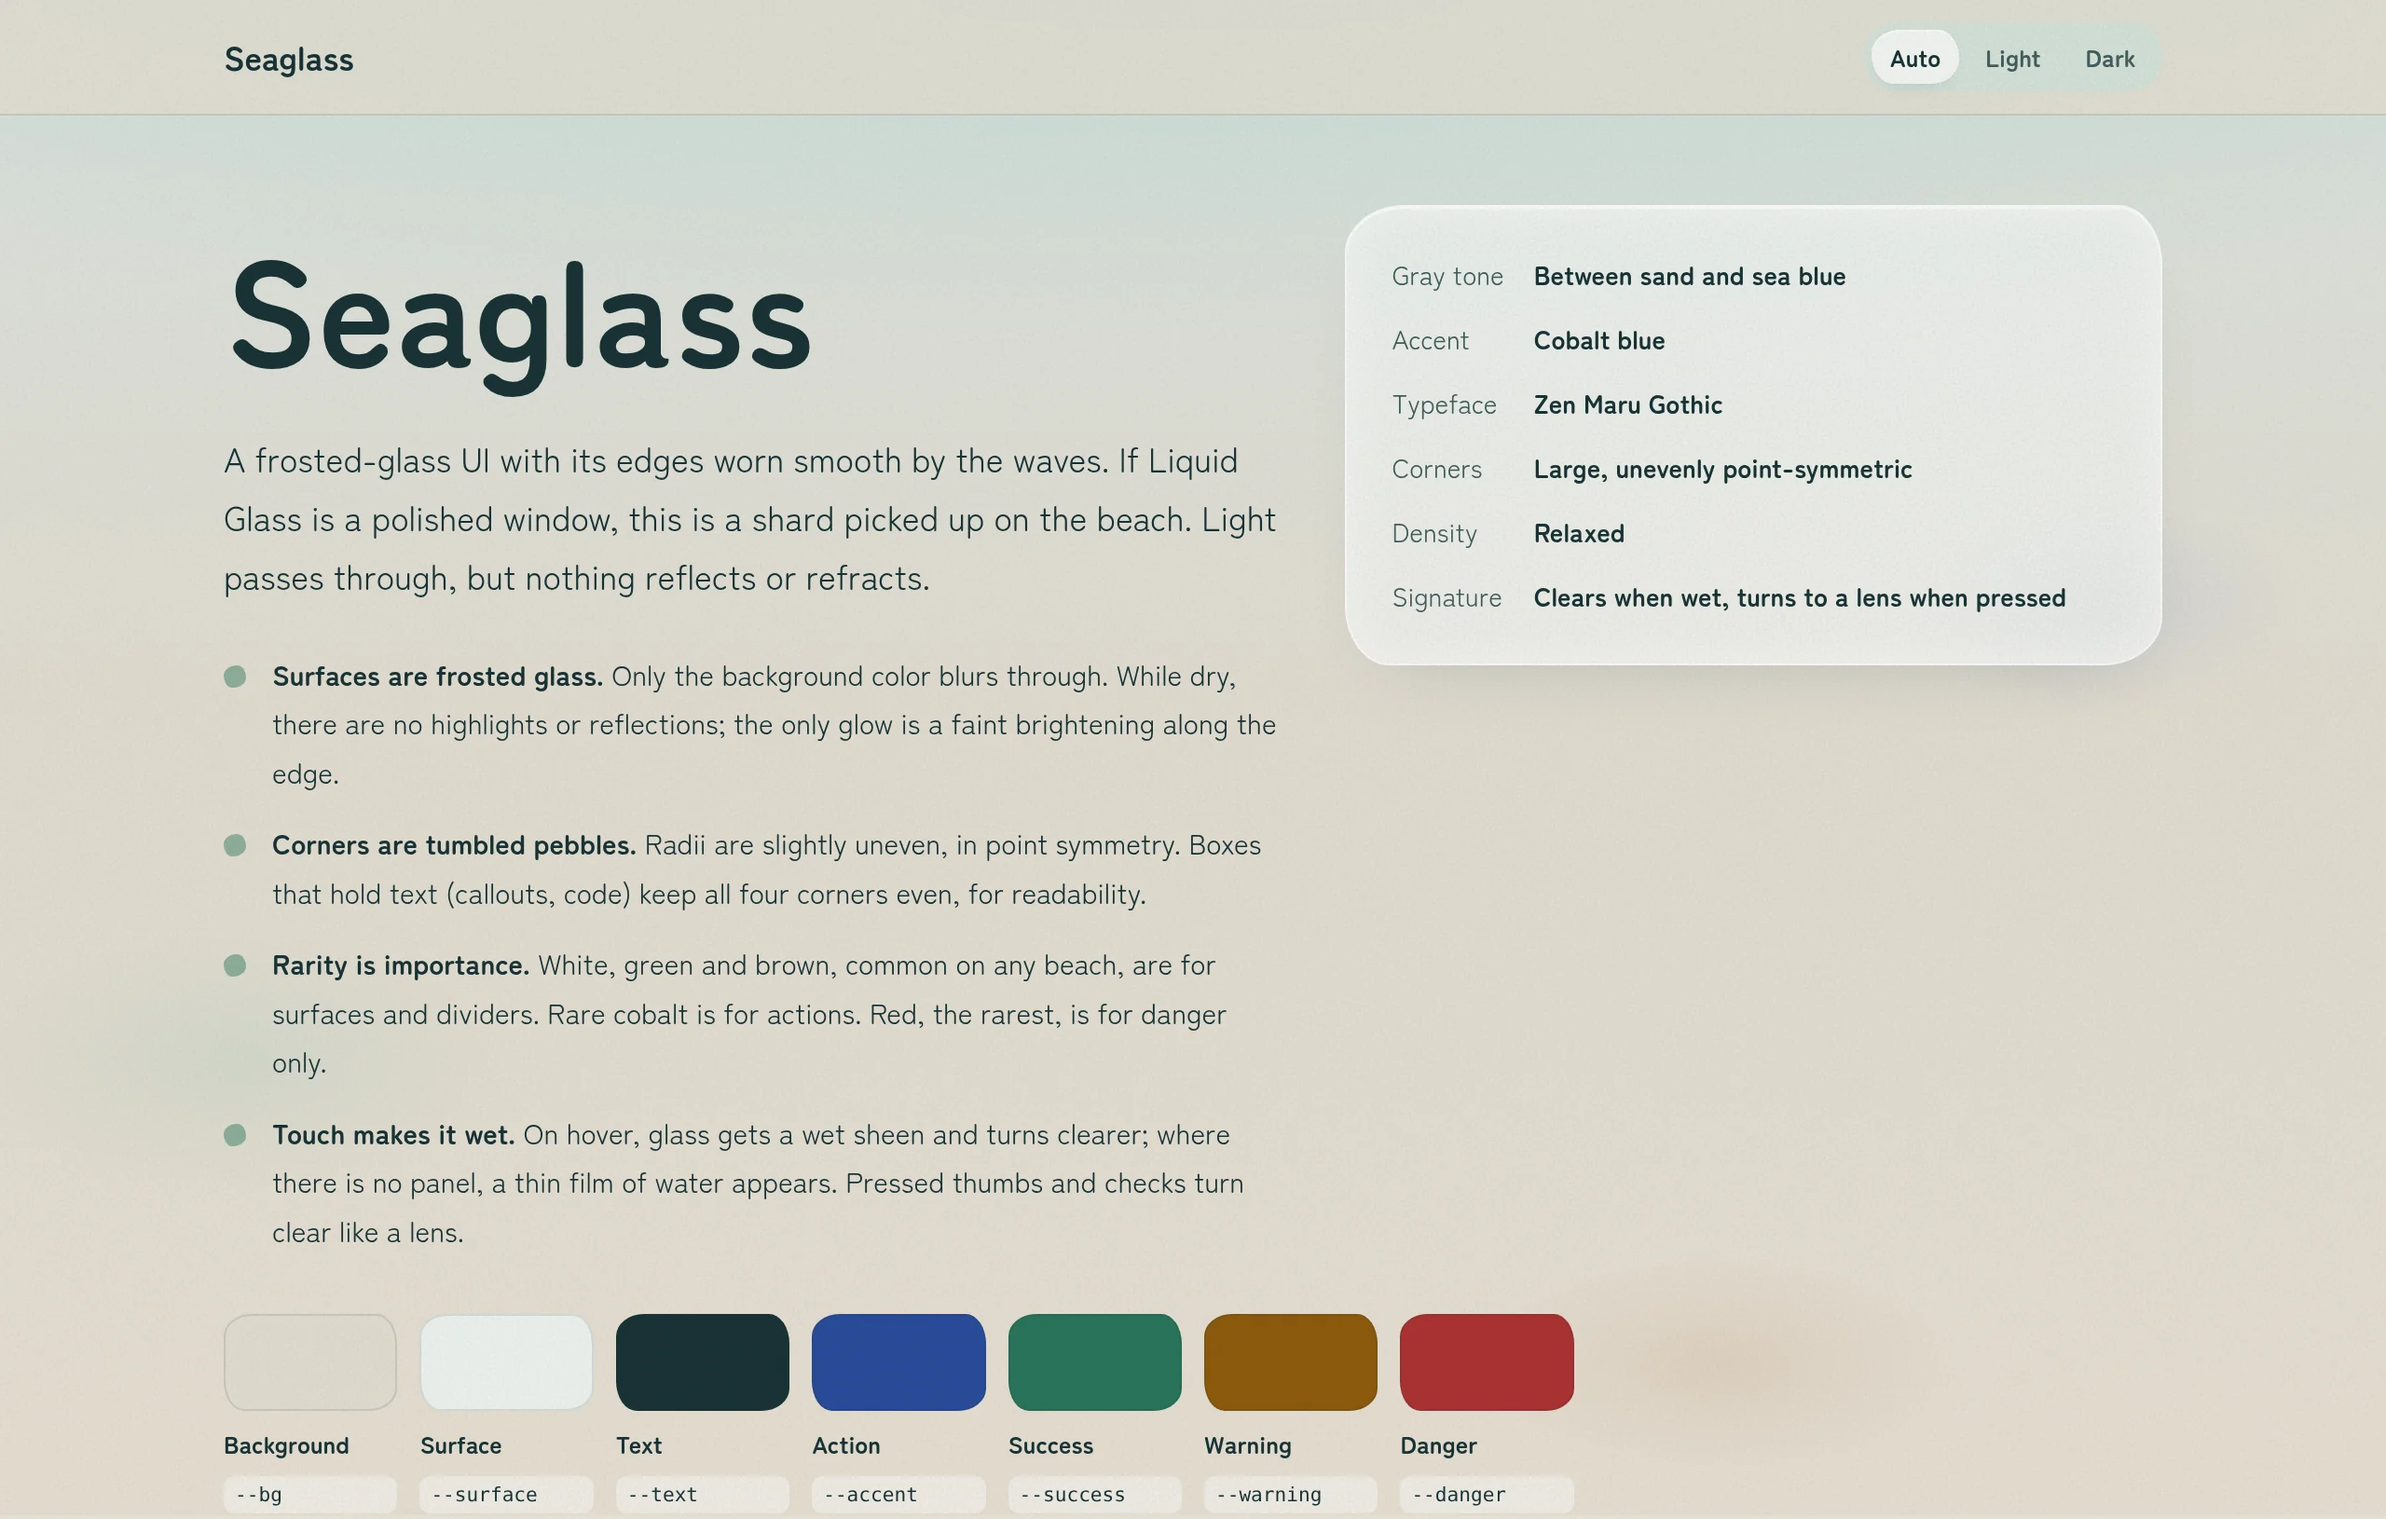
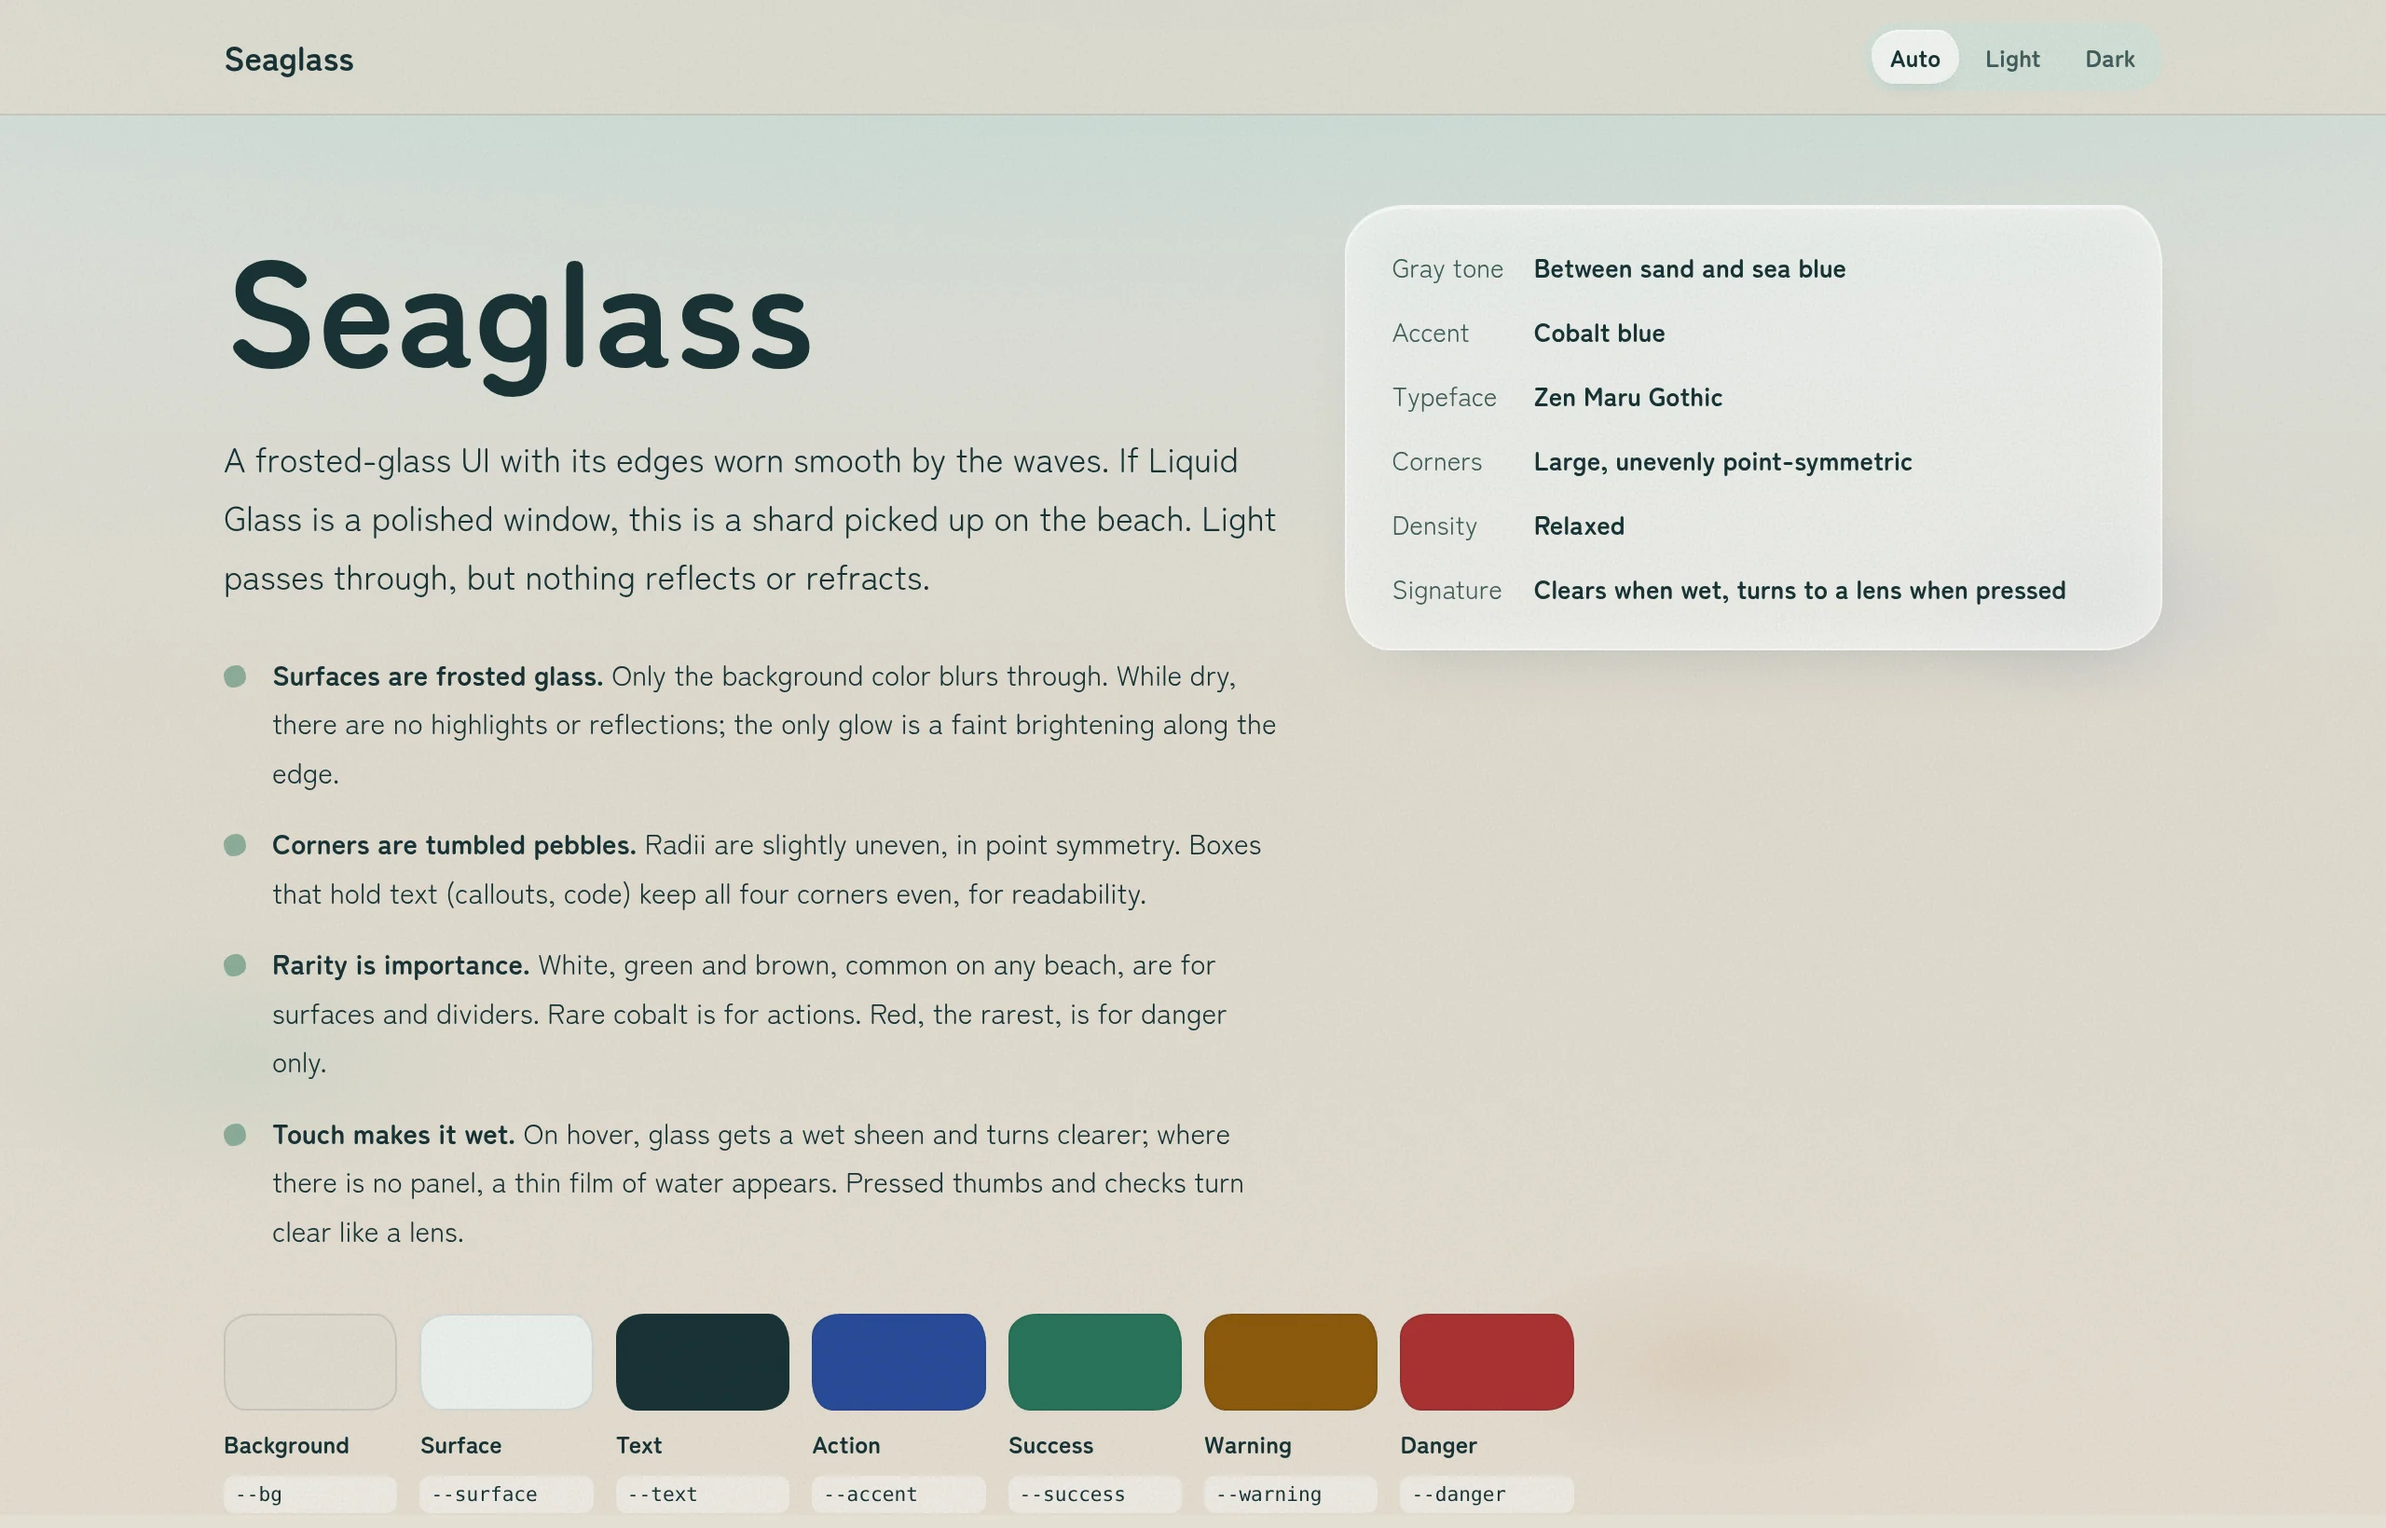
🎨 style: tighten card, list and table spacing
Claude-Session: https://claude.ai/code/session_01QN591hqxUZbeEiL8Tt7Nem

diff --git a/seaglass.css b/seaglass.css
@@ -165,7 +165,7 @@ kbd {
 /* ---------- surfaces ---------- */
 .card {
   position: relative;
-  padding: var(--space-5);
+  padding: 20px var(--space-5);
   background-color: var(--surface);
   background-image: var(--frost);
   border: 1px solid var(--border);
@@ -744,7 +744,7 @@ select.input {
 .avatar-group .avatar + .avatar { margin-left: -8px; }
 
 .list { margin: 0; padding: 0; list-style: none; }
-.list > li { display: flex; align-items: center; gap: var(--space-3); padding: 12px 0; border-bottom: 1px solid var(--divider); }
+.list > li { display: flex; align-items: center; gap: var(--space-3); padding: 10px 0; line-height: 1.5; border-bottom: 1px solid var(--divider); }
 .list > li:last-child { border-bottom: 0; }
 .list > li > div { flex: 1; min-width: 0; }
 .list .meta { display: block; font-size: var(--fs-s); color: var(--text-muted); }
@@ -759,7 +759,7 @@ select.input {
 .stat-delta { font-size: var(--fs-s); font-weight: 700; color: var(--tone); }
 
 .table-scroll { overflow-x: auto; }
-.table { width: 100%; border-collapse: collapse; font-size: 14px; font-variant-numeric: tabular-nums; }
+.table { width: 100%; border-collapse: collapse; font-size: 14px; line-height: 1.5; font-variant-numeric: tabular-nums; }
 .table th, .table td { padding: 10px 12px; text-align: left; border-bottom: 1px solid var(--divider); white-space: nowrap; }
 .table th { font-size: var(--fs-xs); font-weight: 700; color: var(--text-muted); }
 .table tbody tr { transition: background-color var(--dur) var(--ease); }
